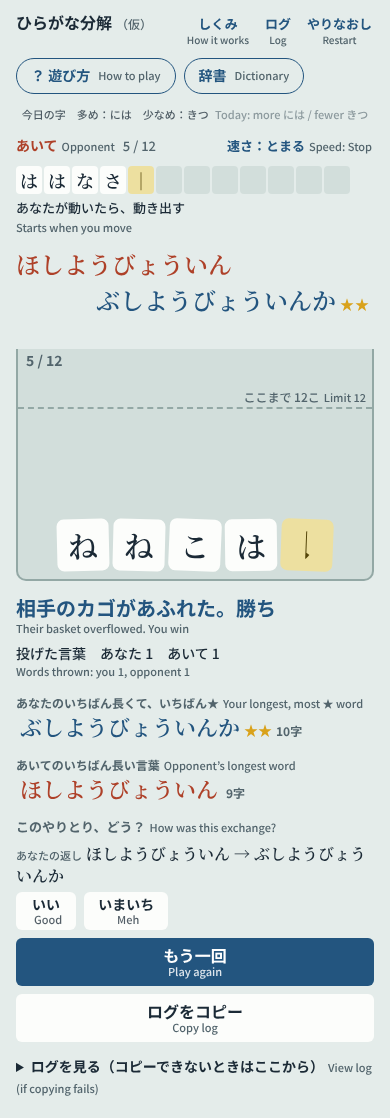
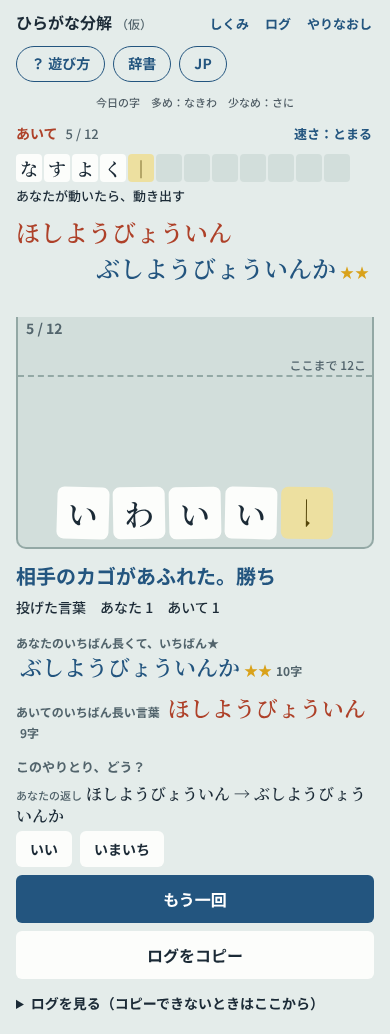
HB-058（D-091）: 韓国語の画面の文を入れる（仮の訳）
Claude-Session: https://claude.ai/code/session_01CHAiRTEPEaodsPZSZBYdce

diff --git a/lang-ko.js b/lang-ko.js
@@ -1,0 +1,84 @@
+/* 韓国語の画面の文（HB-058, D-091）。作者が足し引きする表
+   ★★ 仮の訳。韓国語の読める人に見てもらう（docs/reports/hb-058-ko.txt に日本語と並べた一覧がある）。直すのはこのファイルだけ ★★
+   画面の言葉が「한국어」のとき、画面の文を日本語の文そのままを鍵にしてこの表から出す。表に無い文は English のまま（index.html の applyKo）。
+   FIX：日本語の文 → 韓国語。中に言葉や数が入る文は PAT：[正規表現, 関数]（日本語の文に当てる）。
+   DG：しくみの図の英語の一言（<p class="dg-en">）。英語の文に当てる [正規表現, 関数]。
+   札・言葉はひらがなのまま。意味（漢字・英語）の英語は変えない（JMdict に韓国語が無いため） */
+(function(){
+const FIX={
+  // 上の並び・はじめの画面
+  'しくみ':'작동 방식','ログ':'로그','やりなおし':'다시 시작','？ 遊び方':'? 게임 방법','辞書':'사전','あいて':'상대',
+  '▶ ひとりで（CPU）':'혼자서 (CPU)','入室':'입장','退室':'퇴장','とじる':'닫기','もどる':'뒤로',
+  'ふたりで：同じ合言葉を入れた二人がそろうと、3秒後に同時に始まる。':'둘이서: 같은 방 코드를 입력한 두 사람이 모이면 3초 뒤에 동시에 시작해요.',
+  '合言葉':'방 코드','カゴの上限':'바구니 크기','相手の強さ':'CPU 단계',
+  'ゆるゆる':'아주 쉬움','のんびり':'쉬움','ゆっくり':'보통','ふつう':'어려움','つよい':'아주 어려움','とまる':'정지',
+  // 遊ぶ画面
+  'あなたが動いたら、動き出す':'당신이 움직이면 시작해요','考えている':'생각 중…','手が出ない':'둘 수가 없어요',
+  '投げた言葉は、ここに二人ぶん残る。':'던진 단어는 두 사람 몫이 여기에 남아요.',
+  '相手から届いた言葉は、こっちのカゴの材料になる。':'상대에게서 온 단어는 내 바구니의 재료가 돼요.',
+  '札をタップして選ぶ。順にならべると言葉になる':'타일을 눌러 고르세요. 순서대로 놓으면 단어가 돼요',
+  'えらび直す':'다시 고르기','割る':'쪼개기','回す':'돌리기','裏返す':'뒤집기','くっつける':'붙이기','投げる':'던지기',
+  'もう一回':'한 판 더','ログをコピー':'로그 복사','ログを見る（コピーできないときはここから）':'로그 보기 (복사가 안 될 때는 여기서)',
+  'どっち':'어느 쪽?','あいさつ返し！':'인사로 답례!',
+  // はじめの3行（D-057）
+  '相手のカゴが12こをこえたら勝ち。自分のカゴがこえたら負け。':'상대 바구니가 12개를 넘으면 승리. 내 바구니가 넘으면 패배.',
+  '札を並べて言葉を作り、「投げる」で相手のカゴへ送る。':'타일을 늘어놓아 단어를 만들고, “던지기”로 상대 바구니에 보내요.',
+  '字は「割る・回す・裏返す・くっつける」で別の字に変えられる。':'글자는 “쪼개기·돌리기·뒤집기·붙이기”로 다른 글자로 바꿀 수 있어요.',
+  // 最初の1戦の案内（D-032）
+  '札をタップして選ぶ':'타일을 눌러 고르세요',
+  '順に並べると言葉。『投げる』で相手のカゴへ':'순서대로 놓으면 단어. “던지기”로 상대 바구니에',
+  '相手のカゴが12こをこえたら勝ち。自分のがこえたら負け':'상대 바구니가 12개를 넘으면 승리. 내 바구니가 넘으면 패배',
+  'この棒は、回すと ー、ほかの字とくっつけると別の字になる':'이 막대는 돌리면 ー, 다른 글자와 붙이면 새 글자가 돼요',
+  '次見たかったらここ見て！':'다시 보고 싶으면 여기를 보세요!','↑次見たかったらここ見て！':'↑다시 보고 싶으면 여기를 보세요!',
+  // しくみ・設定
+  '向きの近道':'돌리기 지름길','意味を出す':'뜻 표시','なし':'끄기','漢字だけ':'한자만','漢字＋英語':'한자 + 영어',
+  '字の大きさ':'글자 크기','小さく':'작게','標準':'보통','大きく':'크게','案内':'안내',
+  '案内をもう一度':'안내 다시 보기','次の1戦でまた出ます':'다음 판에 다시 나와요',
+  '割る ⇄ くっつける':'쪼개기 ⇄ 붙이기','割れない字':'쪼갤 수 없는 글자','のばす音':'장음',
+  '向きで変わる字（見ると探す楽しみが減る）':'방향에 따라 바뀌는 글자 (스포일러)','きまり':'규칙',
+  'いいね':'좋아요','すごい':'대단해요','すばらしい':'훌륭해요',
+  // 状態の一言
+  '相手の準備を待っている…':'상대의 준비를 기다리는 중…','相手と同時に始まった。投げた言葉は相手のカゴに届く':'동시에 시작됐어요. 던진 단어는 상대 바구니로 가요',
+  'もうリストに出た言葉。札は手元に残した':'이미 나온 단어예요. 타일은 그대로 뒀어요','送れなかった。つながりを確かめて、もう一度投げてください':'보내지 못했어요. 연결을 확인하고 다시 던져 주세요',
+  '向きが違う。まだ字になっていない':'방향이 달라요. 아직 글자가 아니에요','記号。言葉の最後に付けられる':'기호예요. 단어 끝에 붙일 수 있어요',
+  'のばす音。言葉の中に置ける':'장음이에요. 단어 안에 둘 수 있어요','部品。まだ字になっていない':'부품이에요. 아직 글자가 아니에요',
+  '向きの違う札がまじっている':'방향이 다른 타일이 섞여 있어요','1字では投げられない':'한 글자는 던질 수 없어요','くっつけられる':'붙일 수 있어요','投げられる':'던질 수 있어요',
+  'もうリストに出た言葉（リストで光っている）':'이미 나온 단어예요 (목록에서 빛나요)','二字から':'두 글자부터',
+  'のばす音は頭に置けない':'장음은 맨 앞에 둘 수 없어요','ことばの表にない':'단어 목록에 없어요',
+  // 結果の画面・やりとり（D-081）
+  '相手のカゴがあふれた。勝ち':'상대 바구니가 넘쳤어요. 승리','カゴがあふれた。負け':'바구니가 넘쳤어요. 패배','相手がいなくなった。ここで終わり':'상대가 나갔어요. 여기서 끝',
+  'コピーした':'복사했어요','コピーできず':'복사하지 못했어요',
+  'このやりとり、どう？':'이 주고받기, 어때요?','いい':'좋아요','いまいち':'별로예요',
+  // ふたりで
+  '合言葉を入れてください':'방 코드를 입력하세요','通信の準備ができない。ネットにつながっているか確かめてください':'연결할 수 없어요. 네트워크를 확인하세요',
+  '入室している…':'입장하는 중…','相手を待っている…':'상대를 기다리는 중…','つながらなかった。もう一度入室してください':'연결되지 않았어요. 다시 입장해 주세요',
+  'この合言葉は二人までです。別の合言葉にしてください':'이 방은 두 명까지예요. 다른 방 코드를 쓰세요','相手がそろった。始まるのを待っている…':'상대가 왔어요. 곧 시작해요…',
+  '相手がいなくなった。もう一度入室してください':'상대가 나갔어요. 다시 입장해 주세요'
+};
+const side=s=>s==='あなた'?'나의':'상대의';
+const SPEED_KO={'とまる':'정지','ゆるゆる':'아주 쉬움','のんびり':'쉬움','ゆっくり':'보통','ふつう':'어려움','つよい':'아주 어려움'};
+const COMBO_KO={'いいね':'좋아요','すごい':'대단해요','すばらしい':'훌륭해요'};
+const PAT=[
+  [/^「(.+)」を割った$/,m=>`“${m[1]}” 쪼갬`],[/^「(.+)」を回して裏返した$/,m=>`“${m[1]}” 돌리고 뒤집음`],
+  [/^「(.+)」を回した$/,m=>`“${m[1]}” 돌림`],[/^「(.+)」を裏返した$/,m=>`“${m[1]}” 뒤집음`],
+  [/^「(.+)」と「(.+)」をくっつけた$/,m=>`“${m[1]}” + “${m[2]}” 붙임`],[/^「(.+)」を投げてきた$/,m=>`“${m[1]}” 던짐`],
+  [/^「(.+)」が届いた$/,m=>`“${m[1]}” 도착`],[/^「(.+)」は部品。言葉には使えない$/,m=>`“${m[1]}”은 부품이에요. 단어에는 쓸 수 없어요`],
+  [/^そろった。(\d+)$/,m=>`준비됐어요. ${m[1]}`],
+  [/^今日の字　多め：(.+)　少なめ：(.+)$/,m=>`오늘의 글자 많이: ${m[1]} / 적게: ${m[2]}`],
+  [/^ここまで (\d+)こ$/,m=>`한도 ${m[1]}`],
+  [/^速さ：(.+)$/,m=>`속도: ${SPEED_KO[m[1]]||m[1]}`],
+  [/^(\d+)語中 (\d+)語$/,m=>`${m[1]}개 중 ${m[2]}개`],
+  [/^\d+ \/ \d+　まもなく落ちてくる$/,()=>'곧 글자가 떨어져요'],
+  [/^(いいね|すごい|すばらしい)！工夫 (\d+)$/,m=>`${COMBO_KO[m[1]]}! 비틀기 ${m[2]}`],
+  [/^投げた言葉　あなた (\d+)　あいて (\d+)$/,m=>`던진 단어: 나 ${m[1]}, 상대 ${m[2]}`],
+  [/^(あなた|あいて)のいちばん長くて、いちばん★$/,m=>`${side(m[1])} 가장 길고 ★ 많은 단어`],
+  [/^(あなた|あいて)の今日の一語$/,m=>`${side(m[1])} 오늘의 한 단어`],
+  [/^(あなた|あいて)のいちばん長い言葉$/,m=>`${side(m[1])} 가장 긴 단어`]
+];
+const DG=[
+  [/^Throw words to fill their basket\. Over (\d+) = lose\.$/,m=>`단어를 던져 상대 바구니를 채워요. ${m[1]}개를 넘으면 패배.`],
+  [/^Split$/,()=>'쪼개기'],[/^Join$/,()=>'붙이기'],[/^Rotate・Flip$/,()=>'돌리기・뒤집기'],
+  [/^Dakuten marks$/,()=>'탁점 기호'],[/^No repeats\.$/,()=>'같은 단어는 다시 던질 수 없어요.']
+];
+window.HB_KO={FIX,PAT,DG};
+})();

diff --git a/index.html b/index.html
@@ -515,6 +515,7 @@ small.en.b{display:block;margin-left:0}
 <script src="cpu-ng.js"></script>
 <script src="nice-words.js"></script>
 <script src="scene-groups.js"></script>
+<script src="lang-ko.js"></script>
 <script>
 (()=>{
 'use strict';
@@ -954,8 +955,8 @@ function renderMeanSet(){ document.querySelectorAll('#meanSet button').forEach(b
   const ri=$('roomInput'); if(ri) ri.placeholder=LANG==='ja'?'合言葉':LANG==='ko'?(koOf('合言葉')||'Room code'):'Room code'; }
 /* ---- 画面の言葉の切り替え（HB-057, D-091）----
    英語は <small class="en"> として日本語の文のあとに付いている。日本語の文（その前の兄弟）を span.jp で包み、English・한국어 のときは .jp を消して英語を主にする。
-   動きで作り直される所も多いので、MutationObserver で足された small.en を包む。한국어の表（KO_FIX・KO_PAT。日本語の文を鍵にする）は HB-058 で入れる。表に無い文は English */
-const KO_FIX={}, KO_PAT=[];
+   動きで作り直される所も多いので、MutationObserver で足された small.en を包む。한국어の表（KO_FIX・KO_PAT。日本語の文を鍵にする。しくみの図の英語の一言は KO_DG。lang-ko.js。HB-058）。表に無い文は English */
+const KO_FIX=(window.HB_KO&&window.HB_KO.FIX)||{}, KO_PAT=(window.HB_KO&&window.HB_KO.PAT)||[], KO_DG=(window.HB_KO&&window.HB_KO.DG)||[]; // 表は lang-ko.js（HB-058）
 function koOf(jp){ if(!jp) return ''; if(KO_FIX[jp]) return KO_FIX[jp]; for(const [re,f] of KO_PAT){ const m=String(jp).match(re); if(m) return f(m); } return ''; }
 function wrapJp(root){ if(!root||root.nodeType!==1) return;
   const list=[...(root.matches('small.en')?[root]:[]),...root.querySelectorAll('small.en')];
@@ -966,11 +967,13 @@ function wrapJp(root){ if(!root||root.nodeType!==1) return;
     if(nodes.some(n=>n.nodeType===1||n.textContent.trim())){ const j=document.createElement('j-p'); j.className='jp'; /* span ではなく独自の名前の要素：CSS の「.rim span」などに当たらない */ anchor.parentNode.insertBefore(j,nodes[0]); nodes.forEach(n=>j.appendChild(n)); en.dataset.jp=j.textContent.trim(); }
     else if(p&&p.id&&/En$/.test(p.id)){ const pj=document.getElementById(p.id.replace(/En$/,'')); if(pj) en.dataset.jp=pj.textContent.trim(); }
     applyKo(en); } }
+function koDg(en){ for(const [re,f] of KO_DG){ const m=String(en).match(re); if(m) return f(m); } return ''; }
+function applyDg(p){ if(p.dataset.en==null) p.dataset.en=p.textContent; const k=LANG==='ko'?koDg(p.dataset.en):''; const t=k||p.dataset.en; if(p.textContent!==t) p.textContent=t; p.lang=k?'ko':'en'; } // しくみの図の英語の一言（p.dg-en）
 function applyKo(en){ if(en.dataset.en==null) return; const k=LANG==='ko'?koOf(en.dataset.jp||''):''; const t=k||en.dataset.en; if(en.textContent!==t) en.textContent=t; en.lang=k?'ko':'en'; }
-new MutationObserver(ms=>{ for(const m of ms) m.addedNodes.forEach(wrapJp); }).observe(document.body,{childList:true,subtree:true});
+new MutationObserver(ms=>{ for(const m of ms) m.addedNodes.forEach(n=>{ wrapJp(n); if(n.nodeType===1){ if(n.matches('.dg-en')) applyDg(n); n.querySelectorAll('.dg-en').forEach(applyDg); } }); }).observe(document.body,{childList:true,subtree:true});
 function applyLang(){ const h=document.documentElement;
   h.classList.toggle('no-en',LANG==='ja'); h.classList.toggle('en-main',LANG!=='ja'); h.lang=LANG;
-  wrapJp(document.body); document.querySelectorAll('small.en').forEach(applyKo);
+  wrapJp(document.body); document.querySelectorAll('small.en').forEach(applyKo); document.querySelectorAll('.dg-en').forEach(applyDg);
   document.querySelectorAll('.langBtn').forEach(b=>{ b.textContent=LANG_UI[LANG][0]; b.setAttribute('aria-label',LANGS.map(l=>LANG_UI[l][1]).join(' / ')); });
   document.querySelectorAll('.langSet').forEach(el=>{ if(!el.firstChild) el.innerHTML=LANGS.map(l=>`<button type="button" data-lang="${l}" lang="${l}">${LANG_UI[l][1]}</button>`).join(''); el.querySelectorAll('button').forEach(b=>b.setAttribute('aria-pressed',String(b.dataset.lang===LANG))); });
   renderMeanSet(); }

diff --git a/docs/SESSION_STATE.md b/docs/SESSION_STATE.md
@@ -112,6 +112,7 @@
 - HB-055：む＝せ＋∘ を足した。辞書 34,028→35,336 語。dict-renyo.js・meanings.js は Actions に任せる（D-089。R-020）
 - HB-056：はじめの画面の「ひとりで」「入室」を結果の画面の主なボタンと同じ塗り（var(--me)）にし、「ひとりで」に ▶ を付けた（D-090。R-021）
 - HB-057：画面の言葉を 日本語／English／한국어 で切り替えられるようにした。はじめは端末の言語。한국어の文の表は空（HB-058）（D-091。R-022）
+- HB-058：韓国語の画面の文の表（lang-ko.js）を入れた。English の表にある文は全部。ko-KR・한국어を選ぶと韓国語が主で出る。表に無い文は English（D-091。R-023）
 
 ## 次にやること
 
@@ -131,6 +132,7 @@
 - 道すじ（p.d）が長くなりすぎて CPU が止まる問題の残り（D-067「残っていること」）：CPU だけを長く動かすとまだ起きる。直し方を作者に聞く
 
 - HB-015 の仮の英語（表にない文）を作者に見てもらう
+- HB-058 の仮の韓国語（docs/reports/hb-058-ko.txt）を韓国語の読める友人に見てもらう
 
 - 字を足したら、tools/famous_places.txt と tools/build_dict.js の LETTERS を直し、IPADIC から辞書を作り直す（R-004）。そのあと meanings.js も作り直す
 
@@ -141,6 +143,7 @@
 
 ## 未確定項目
 
+- 編集の仮置き（D-091。HB-058）：韓国語の文は係の仮の訳（lang-ko.js の頭に書いてある。docs/reports/hb-058-ko.txt に日本語と並べた一覧）。韓国語の読める人に見てもらって直す。「工夫」は「비틀기」、札は「타일」、割る・回す・裏返す・くっつける・投げる は 쪼개기・돌리기・뒤집기・붙이기・던지기（仮）。言葉の意味（JMdict の英語）・しくみの長い説明文・「あなたの返し」は English／日本語のまま
 - 編集の仮置き（D-091）：切り替えボタンの字 JP／EN／KO（index.html の LANG_UI）・選ぶ名前（日本語／English／한국어）・日本語の文を j-p 要素で包んで消すやり方・はじめの画面のボタンの置き場所（題の右）・한국어は表が空のあいだ English、は編集の仮置き。English のとき、英語の無い文（しくみの長い説明など）は日本語のまま（一覧 docs/reports/hb-057-no-english.txt）。日本語を選ぶと、意味の英語・強さボタンの英語も出ない
 - 編集の仮置き（D-086）：連用形の候補は「五段動詞・自立・連用形」で小さい字を含むものを除いた 1,161語。JMdict の pos が n（名詞。n-suf などは含めない）の語だけ選ぶ。dict-renyo.js は空のまま出した（この作業場から JMdict を取れない）。次の毎日の更新（3:17）か Actions の「Run workflow」で埋まる。埋まったら tests/counts.js の RENYO_WORDS_NOW を直す
 

diff --git a/docs/DECISION_LOG.md b/docs/DECISION_LOG.md
@@ -785,3 +785,14 @@
 - 確かめ：npm test 全部（120件）。tests/e2e/lang.spec.js（新規。ja・en・ko の各言葉・切り替え・覚える・390px）。tests/e2e/scenes.spec.js は「Greeting back!」を見る1行を「日本語では英語を出さない」に直した（日本語のときは英語の添えを出さない決まりに合わせた）。playwright.config.js に locale ja-JP を足した（いまのテストは日本語にそろえる）。画像 docs/reports/img/hb-057-*.png。英語の無い文の一覧 docs/reports/hb-057-no-english.txt
 - 却下／やらなかったこと：日本語と英語を同時に出す選び方（編集の判断）／韓国語の文を作ること（HB-058）／日本語・英語の文を変えること
 - 作業：HB-057
+
+## R-023 韓国語の画面の文を入れる（HB-058、D-091、作者 2026-11-21 21:18・21:20）
+
+- 決めたこと（作者）：「メイン部分はひらがなでいいけど、韓国語と英語対応させたい。まず、漢字読めないらしい。」「初期値は端末言語で！」
+- 中身（編集の仮置き）：韓国語の文の表を新しいファイル lang-ko.js に置いた（FIX＝日本語の文→韓国語、PAT＝言葉や数が入る文、DG＝しくみの図の英語の一言に当てる）。頭に「仮の訳。韓国語の読める人に見てもらう」。English の表（EN_FIX・EN_PAT・案内・はじめの3行・やりとり・今日の字・工夫の声・強さ・カゴの上限・しくみの図の一言）の文は全部。index.html は lang-ko.js を読み、applyKo（HB-057）が表の文を出す。表に無い文は English（空にしない）。しくみの図の英語の一言（p.dg-en）も applyDg で韓国語にする
+- 韓国語にしなかったもの：言葉の意味の英語（JMdict に韓国語が無い）／英語の添えが無い日本語の文（しくみの長い説明・「あなたの返し」の見出し）。札・言葉はひらがなのまま
+- 字：ハングルは Noto Sans CJK（--f-ui の JP 版）で □ にならない。外のフォントは足していない。端末のフォントは html の lang="ko" で選ばれる
+- 確かめ：npm test 全部。tests/e2e/lang.spec.js の ko-KR の期待を「English で出る」から「韓国語で出る」に変えた（表が埋まったため）／声・しくみの図・結果の画面・表に無い文は English・ハングルの字が出る を足した。tests/unit/data.test.js に lang-ko.js が読める・English の表の文が全部ある、を足した。390px ではみ出さない（遊ぶ画面・しくみ・結果）。画像 docs/reports/img/hb-058-ko-*.png。一覧 docs/reports/hb-058-ko.txt
+- 却下／やらなかったこと：日本語・英語の文を変える／札・言葉をハングルにする／韓国語の意味の辞書／外のフォント
+- 作業：HB-058
+
